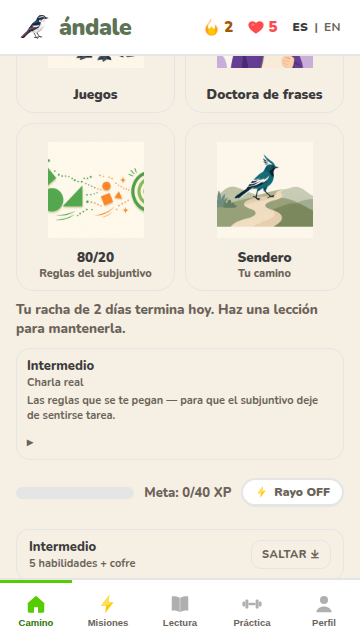
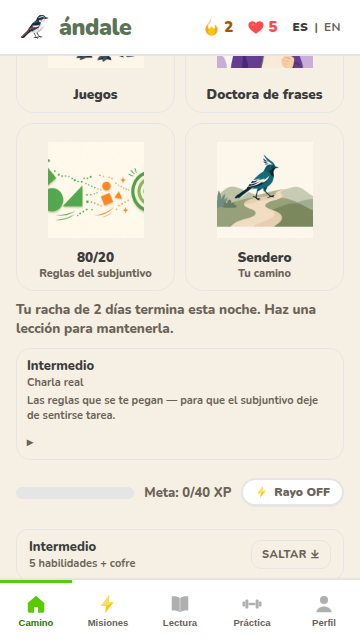
Say esta noche in the Spanish streak reminder.
The reminder keeps the flame's count. English stays the singular compound, Your 2-day streak ends tonight. Spanish uses días and termina esta noche, and only 1 uses día.

Changed region(s): [[0.0306, 0.5, 0.4889, 0.5312], [0.5194, 0.4688, 0.8861, 0.5]]

diff --git a/src/streakDisplay.test.js b/src/streakDisplay.test.js
@@ -20,7 +20,7 @@ assert(same.displayStreak === 4 && same.line === "" && same.status === "same", "
 
 const riskEs = view({ streak: 4, lastDay: yesterday });
 assert(riskEs.displayStreak === 4 && riskEs.status === "at-risk", "yesterday keeps the stored number");
-assert(riskEs.line === "Tu racha de 4 días termina hoy. Haz una lección para mantenerla.", "ES at-risk plural is George's sentence");
+assert(riskEs.line === "Tu racha de 4 días termina esta noche. Haz una lección para mantenerla.", "ES at-risk plural is George's sentence");
 
 const riskEn = view({ streak: 4, lastDay: yesterday }, { lang: "en" });
 assert(riskEn.displayStreak === 4 && riskEn.status === "at-risk", "EN yesterday stays at risk");
@@ -28,18 +28,19 @@ assert(riskEn.line === "Your 4-day streak ends tonight. Do one lesson to keep it
 
 const oneEs = view({ streak: 1, lastDay: yesterday });
 assert(oneEs.displayStreak === 2 && oneEs.status === "at-risk", "the first return shows the earned 2");
-assert(oneEs.line === "Tu racha de 2 días termina hoy. Haz una lección para mantenerla.", "ES first return uses the earned count in the lesson sentence");
+assert(oneEs.line === "Tu racha de 2 días termina esta noche. Haz una lección para mantenerla.", "ES first return uses the earned count in the lesson sentence");
 const oneEn = view({ streak: 1, lastDay: yesterday }, { lang: "en" });
 assert(oneEn.displayStreak === 2 && oneEn.line === "Your 2-day streak ends tonight. Do one lesson to keep it.", "EN first return uses the earned count");
 assert(oneEs.line.includes(String(oneEs.displayStreak)) && oneEn.line.includes(String(oneEn.displayStreak)), "the reminder uses the same number as the flame");
-assert(streakAtRiskLine(1, "es") === "Tu racha de 1 día termina hoy. Haz una lección para mantenerla.", "ES reminder stays singular only at 1");
+assert(streakAtRiskLine(1, "es") === "Tu racha de 1 día termina esta noche. Haz una lección para mantenerla.", "ES reminder stays singular only at 1");
 assert(streakAtRiskLine(1, "en") === "Your 1-day streak ends tonight. Do one lesson to keep it.", "EN reminder stays the 1-day sentence only at 1");
 for (const n of [2, 3, 4, 11]) {
   const es = streakAtRiskLine(n, "es");
   const en = streakAtRiskLine(n, "en");
-  assert(es === `Tu racha de ${n} días termina hoy. Haz una lección para mantenerla.`, `ES reminder ${n} is días`);
+  assert(es === `Tu racha de ${n} días termina esta noche. Haz una lección para mantenerla.`, `ES reminder ${n} is días`);
   assert(!es.includes("1 día termina"), `ES reminder ${n} is not the singular sentence`);
   assert(en === `Your ${n}-day streak ends tonight. Do one lesson to keep it.`, `EN reminder ${n} uses that count`);
+  assert(en.includes(`${n}-day streak`) && !en.includes("-days") && !en.includes(`${n}-days`), `EN reminder ${n} keeps the singular compound`);
   assert(!en.startsWith("Your 1-day"), `EN reminder ${n} is not the 1-day sentence`);
 }
 assert(view({ streak: 1, lastDay: yesterday }).displayStreak === 2, "the stored 1 is not what the flame shows");

diff --git a/src/streakDisplay.home.test.jsx b/src/streakDisplay.home.test.jsx
@@ -54,7 +54,7 @@ describe("Learn home streak note", () => {
     homeSeed({ uiLang: "es", theme: "light", streak: 4, lastDay: yesterday });
     await openHome();
 
-    expect(note().textContent).toBe("Tu racha de 4 días termina hoy. Haz una lección para mantenerla.");
+    expect(note().textContent).toBe("Tu racha de 4 días termina esta noche. Haz una lección para mantenerla.");
     expect(note().getAttribute("data-streak-status")).toBe("at-risk");
     expect(screen.getByTestId("streak").textContent.replace(/\s+/g, " ").trim()).toMatch(/^4/);
     expect(JSON.parse(localStorage.getItem(STORAGE_KEY)).streak).toBe(4);
@@ -78,7 +78,7 @@ describe("Learn home streak note", () => {
   it("uses the earned 2 in the at-risk reminder on the first return", async () => {
     homeSeed({ uiLang: "es", streak: 1, lastDay: prevDayKey(localToday()) });
     await openHome();
-    expect(note().textContent).toBe("Tu racha de 2 días termina hoy. Haz una lección para mantenerla.");
+    expect(note().textContent).toBe("Tu racha de 2 días termina esta noche. Haz una lección para mantenerla.");
     expect(screen.getByTestId("streak").textContent.replace(/\s+/g, " ").trim()).toMatch(/^2/);
     const user = userEvent.setup();
     await user.click(screen.getByTestId("lang-en"));
@@ -294,7 +294,7 @@ describe("welcome back on the Hoy caption", () => {
     expect(quiet().textContent).toBe("Qué bueno verte de nuevo. Racha: 3 días. Sigue donde quedaste: Subjuntivo presente.");
     expect(screen.getByTestId("hub-hoy-label").textContent).toBe("Hoy");
     expect(screen.getByTestId("hub-hoy").contains(quiet())).toBe(true);
-    expect(screen.getByTestId("streak-home-note").textContent).toBe("Tu racha de 3 días termina hoy. Haz una lección para mantenerla.");
+    expect(screen.getByTestId("streak-home-note").textContent).toBe("Tu racha de 3 días termina esta noche. Haz una lección para mantenerla.");
     expect(screen.getByTestId("streak").textContent.replace(/\s+/g, " ").trim()).toMatch(/^3/);
     expect(JSON.parse(localStorage.getItem(STORAGE_KEY)).streak).toBe(3);
     expect(JSON.parse(localStorage.getItem(STORAGE_KEY)).lastDay).toBe(yesterday);

diff --git a/src/streakDisplay.js b/src/streakDisplay.js
@@ -26,7 +26,7 @@ export function calendarGap(lastDay, today) {
   return Math.round((to - from) / DAY_MS);
 }
 
-/** George lock. n = 1 uses día / 1-day and still asks for one lesson. */
+/** n = 1 uses día / 1-day. ES plural is días and "esta noche". EN stays "N-day", never "N-days". */
 export function streakAtRiskLine(count, lang) {
   const n = Number(count);
   if (!Number.isFinite(n) || n < 1) return "";
@@ -34,8 +34,8 @@ export function streakAtRiskLine(count, lang) {
     if (n === 1) return "Your 1-day streak ends tonight. Do one lesson to keep it.";
     return `Your ${n}-day streak ends tonight. Do one lesson to keep it.`;
   }
-  if (n === 1) return "Tu racha de 1 día termina hoy. Haz una lección para mantenerla.";
-  return `Tu racha de ${n} días termina hoy. Haz una lección para mantenerla.`;
+  if (n === 1) return "Tu racha de 1 día termina esta noche. Haz una lección para mantenerla.";
+  return `Tu racha de ${n} días termina esta noche. Haz una lección para mantenerla.`;
 }
 
 function streakCount(count) {

diff --git a/src/firstStreakReturn.home.test.jsx b/src/firstStreakReturn.home.test.jsx
@@ -65,7 +65,7 @@ describe("day-2 first streak return card", () => {
     expect(screen.getByTestId("first-streak-continue").textContent).toBe("Empieza a leer");
     expect(screen.getByTestId("streak").textContent.replace(/\s+/g, " ").trim()).toMatch(/^2/);
     expect(screen.getByTestId("hub-hoy-quiet").textContent).toContain("Racha: 2 días.");
-    expect(screen.getByTestId("streak-home-note").textContent).toBe("Tu racha de 2 días termina hoy. Haz una lección para mantenerla.");
+    expect(screen.getByTestId("streak-home-note").textContent).toBe("Tu racha de 2 días termina esta noche. Haz una lección para mantenerla.");
     expect((window.__andaleFunnelLog || []).filter((event) => event.event === "first_streak_seen")).toHaveLength(1);
 
     await user.click(screen.getByTestId("nav-perfil"));
